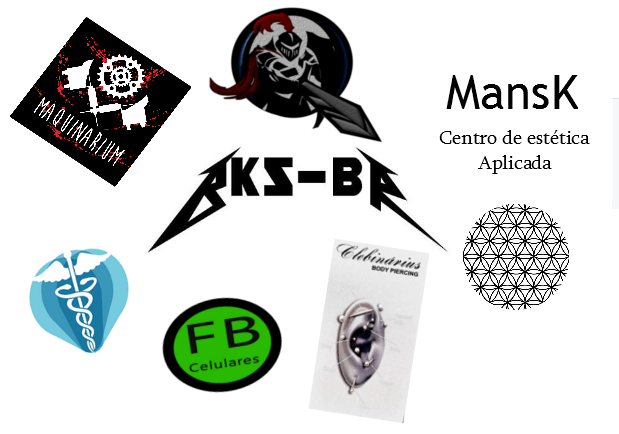
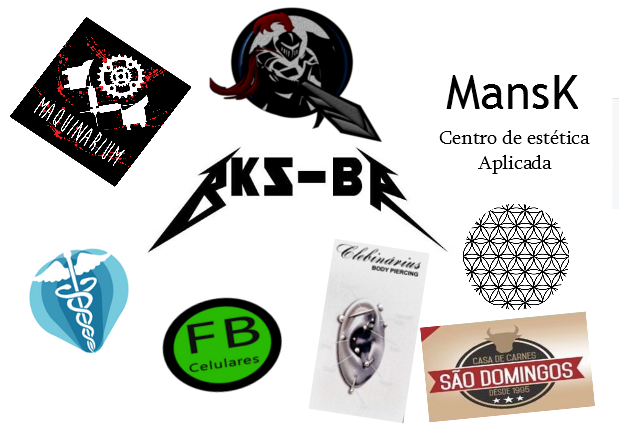
Adição de um novo cliente.

Changed region(s): [[0.6753, 0.7189, 0.9822, 0.9885]]

diff --git a/BKS/_js/builderP2.js b/BKS/_js/builderP2.js
@@ -48,6 +48,14 @@ var clientes = [
     "alt" : "Logo Maquinarium.",
     "img" : "LogoMaquinarium.png",
     "site" : ""
+  },
+  {
+    "nome" : "Casa de Carnes São Domingos.",
+    "facebook" : "https://www.facebook.com/maquinarium.tattoo/",
+    "description" : "Atuando há mais de vinte e cinco anos, a Casa de Carnes São Domingos sempre mantém um atendimento personalizado,contando com uma equipe de profissionais qualificados e com produtos de altíssima qualidade, oferecendo ao cliente o que há de melhor em carnes. Proporcionamos praticidade ao seu dia a dia, colocando à sua disposição carnes temperadas e assadas.",
+    "alt" : "Logo Casa de Carnes São Domingos.",
+    "img" : "CasaDeCarnes.png",
+    "site" : ""
   }
 ];
 

diff --git a/BKS/clientes.html b/BKS/clientes.html
@@ -73,8 +73,8 @@
 
     <script type="text/javascript" src="_js/jquery-3.1.1.js"></script>
     <script type="text/javascript" src="_js/bootstrap.min.js"></script>
-    <script type="text/javascript" src="_js/helper.js"></script>
-    <script type="text/javascript" src="_js/builderP2.js"></script>
+    <script async defer type="text/javascript" src="_js/helper.js"></script>
+    <script async defer type="text/javascript" src="_js/builderP2.js"></script>
   </body>
 
   <!-- Modal -->

diff --git a/BKS/_css/clientes.css b/BKS/_css/clientes.css
@@ -8,6 +8,10 @@
   color: black;
 }
 
+#botoes {
+  margin-left: 10%;
+}
+
 @media screen and (max-width: 450px){
   .LogoClientes {
     font-size: 100%;
